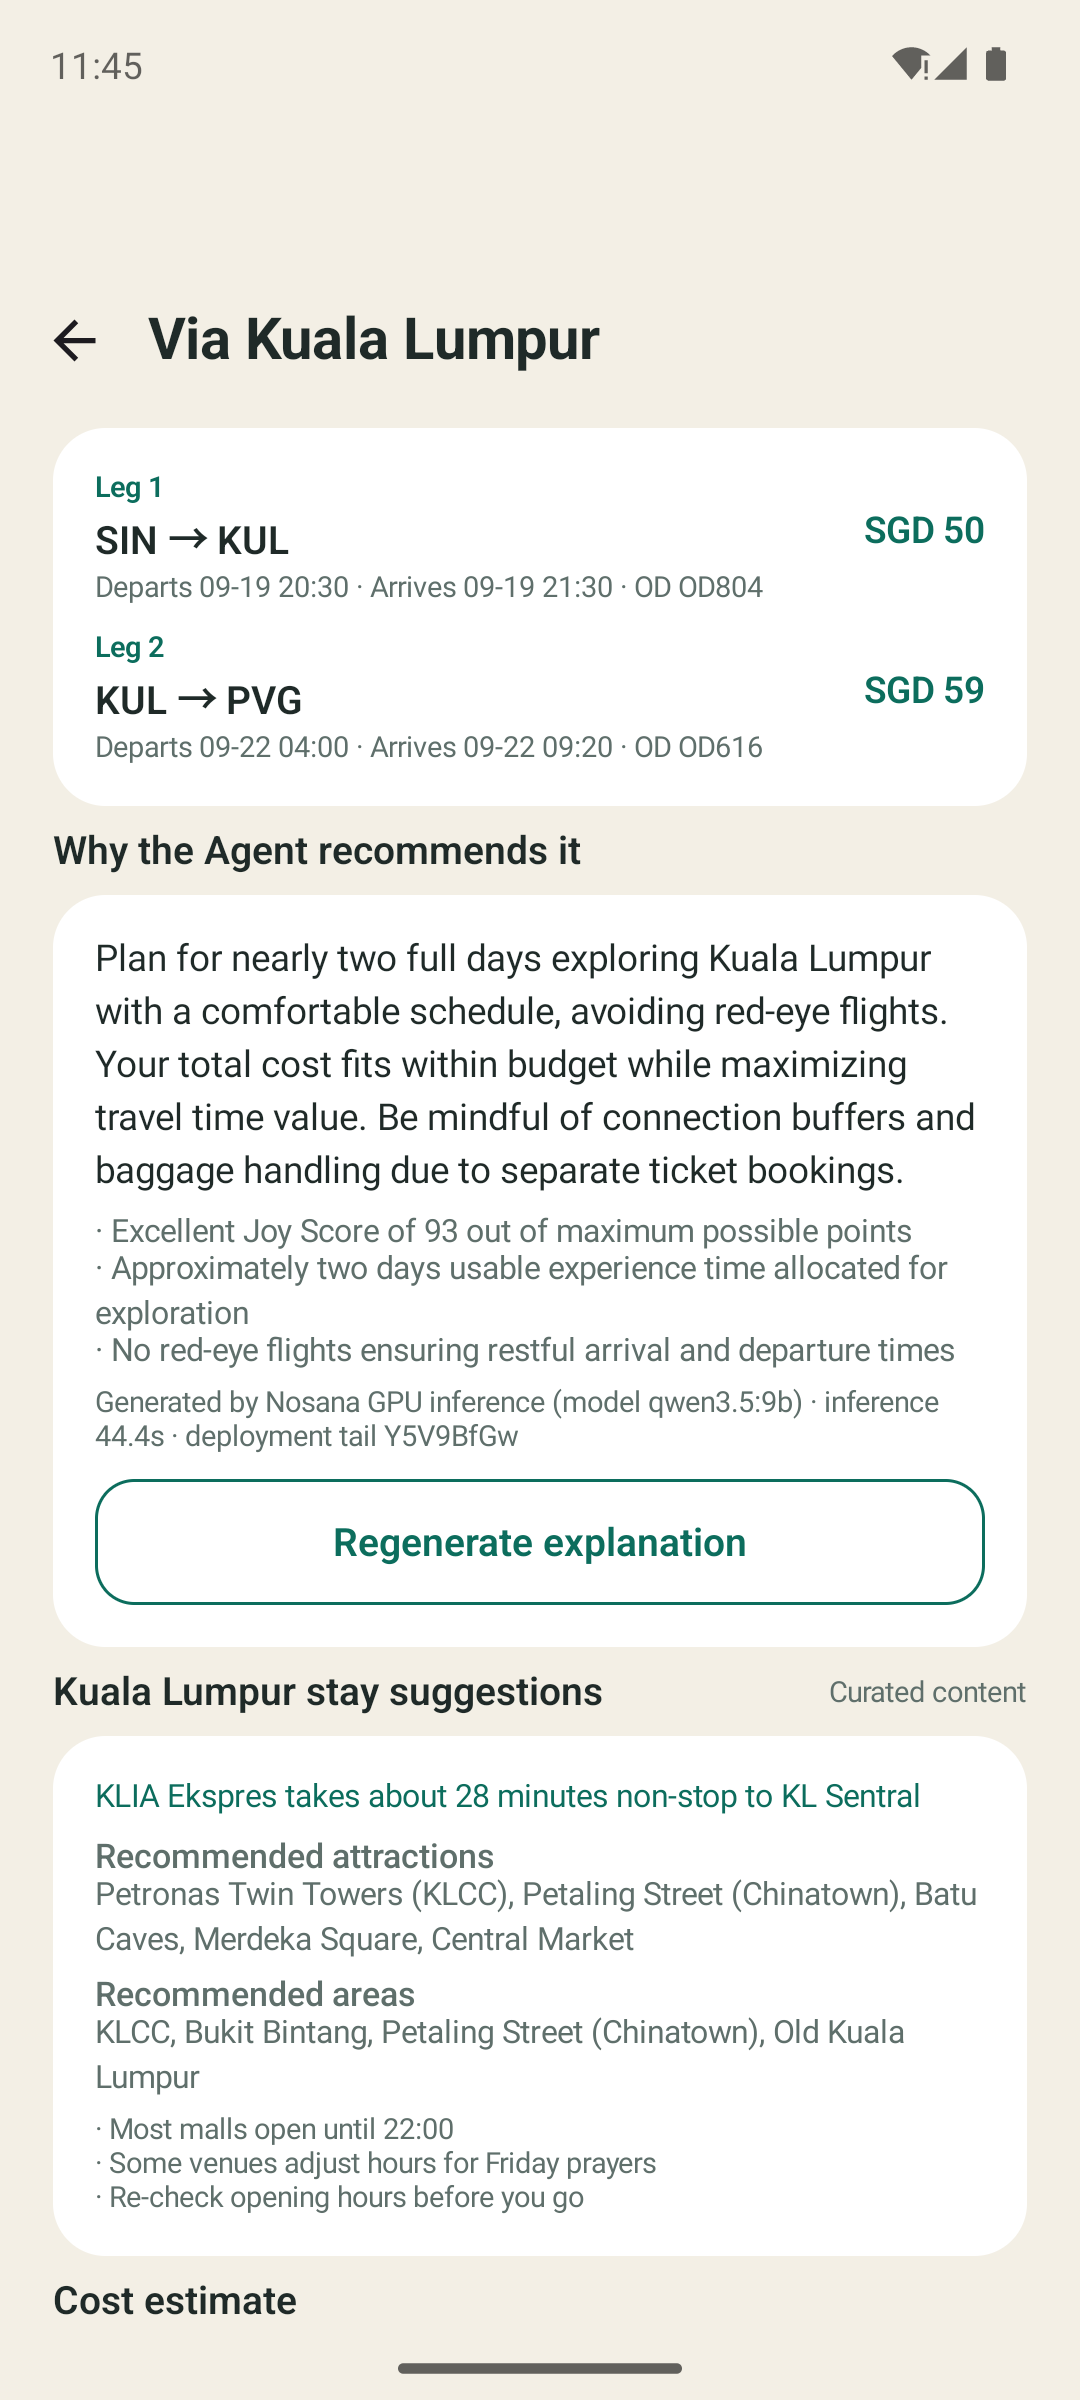
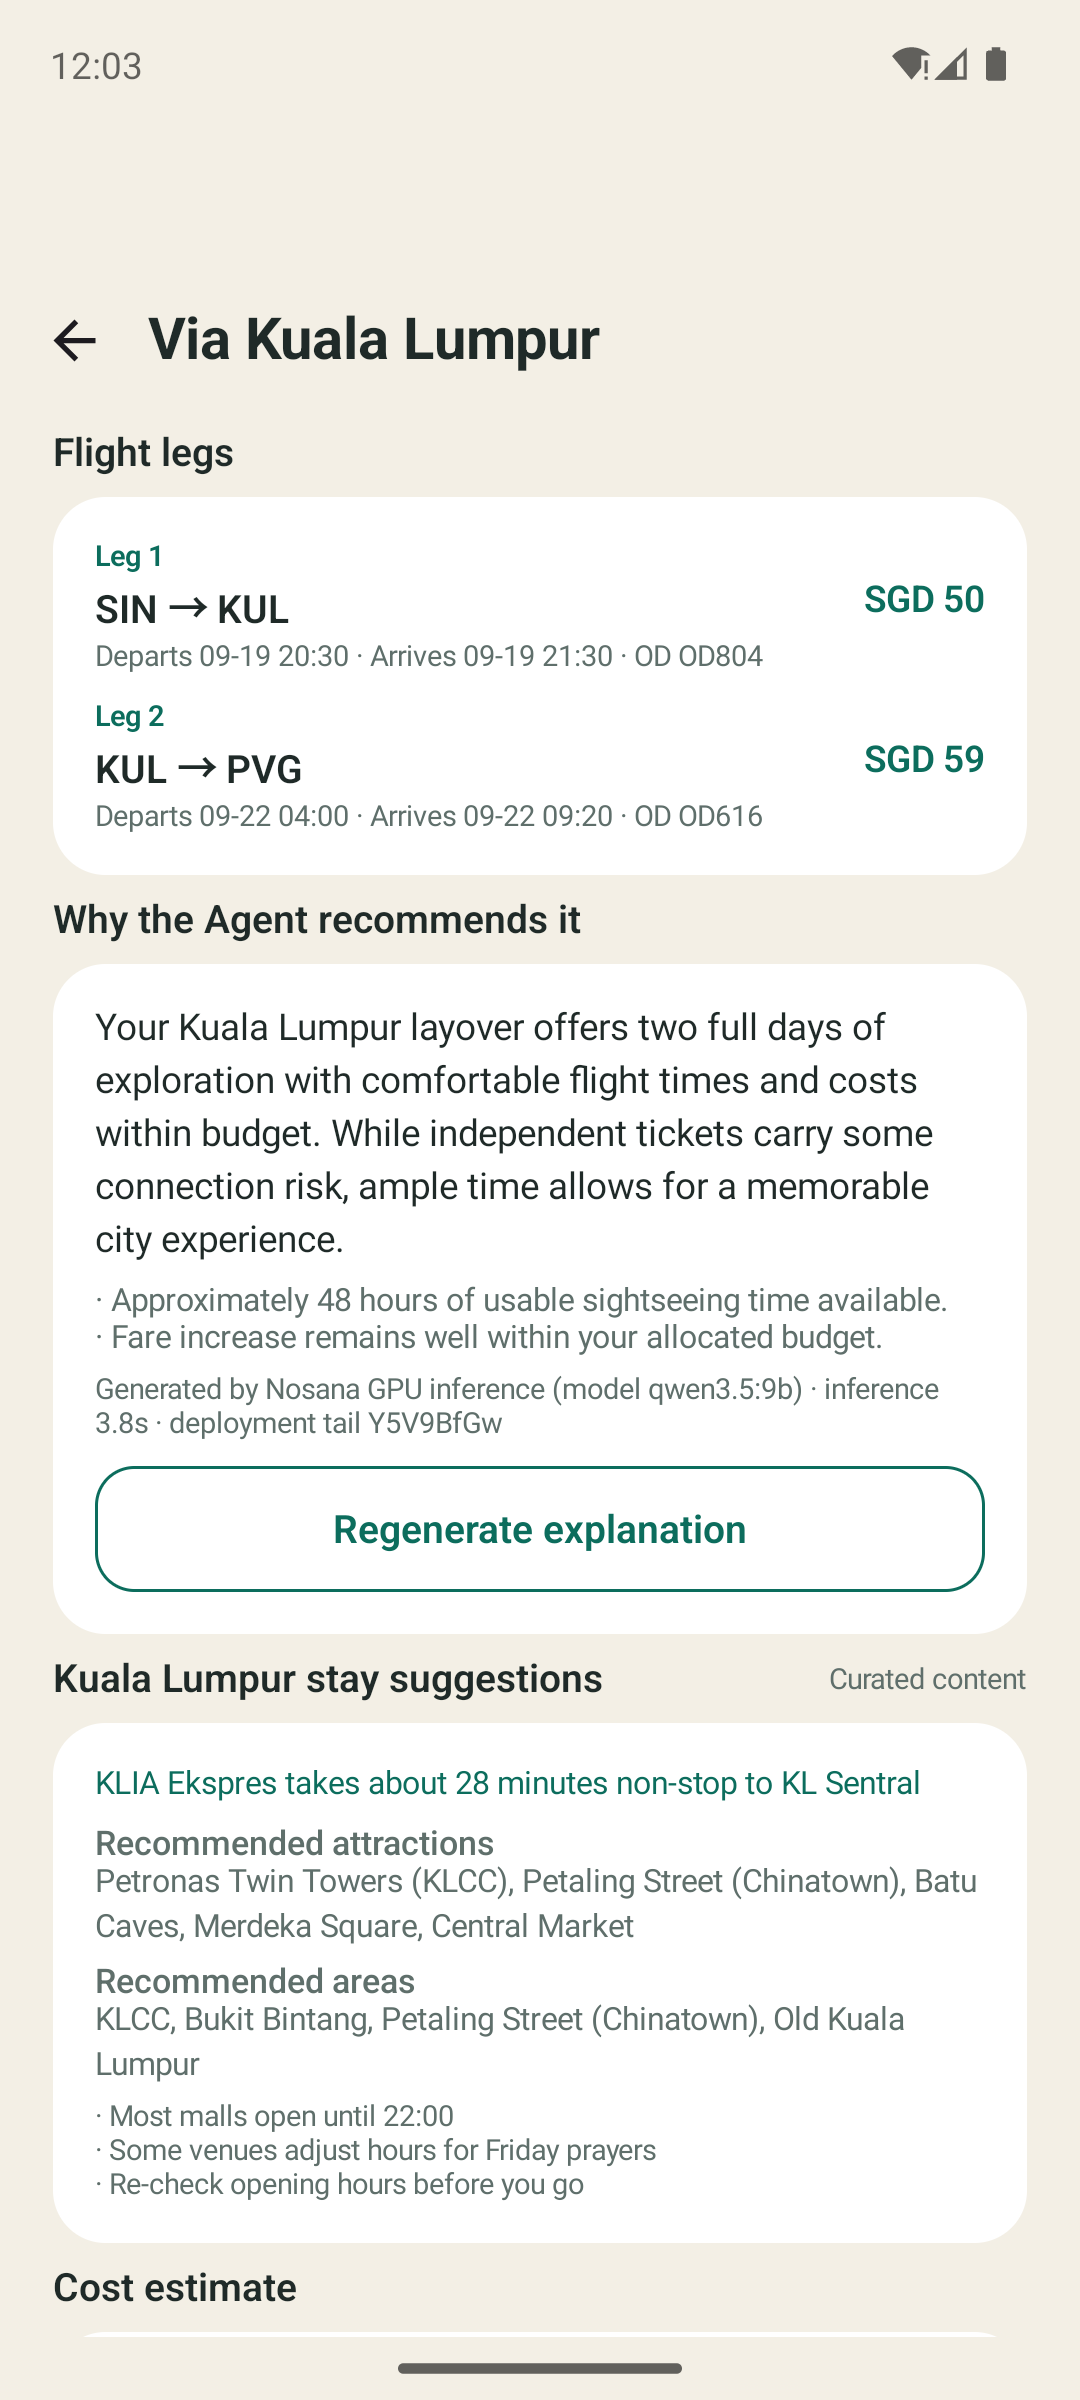
perf(nosana): native /api/chat with think:false, 45s -> ~4s inference
OpenAI-compatible endpoint cannot disable qwen3.5 reasoning chains
(measured 45-50s, and /no_think or think:false there broke content).
Ollama native /api/chat honors think:false + format:json: 3.8-4.5s
end-to-end with equal-quality bilingual output. Screenshot updated.

diff --git a/backend/src/explanations/nosana.service.ts b/backend/src/explanations/nosana.service.ts
@@ -157,14 +157,18 @@ export class NosanaService {
       const controller = new AbortController();
       const timer = setTimeout(() => controller.abort(), budgetMs);
       try {
-        const res = await fetch(`${env.NOSANA_OPENAI_BASE_URL.replace(/\/$/, '')}/chat/completions`, {
+        // 走 Ollama 原生 /api/chat：OpenAI 兼容接口无法关闭 qwen3.5 的长推理（实测 45–50s），
+        // 原生接口 think:false + format:json 同等质量约 5s（实测 10 倍提速）。
+        const nativeBase = env.NOSANA_OPENAI_BASE_URL.replace(/\/v1\/?$/, '').replace(/\/$/, '');
+        const res = await fetch(`${nativeBase}/api/chat`, {
           method: 'POST',
           signal: controller.signal,
           headers,
           body: JSON.stringify({
             model: env.NOSANA_MODEL,
             stream: false,
-            response_format: { type: 'json_object' },
+            think: false,
+            format: 'json',
             messages: [
               { role: 'system', content: systemPrompt },
               { role: 'user', content: userPrompt },
@@ -177,7 +181,7 @@ export class NosanaService {
           return this.templateExplanation(req, 'HTTP_ERROR');
         }
         const data: any = await res.json();
-        const content: string = data?.choices?.[0]?.message?.content ?? '';
+        const content: string = data?.message?.content ?? '';
         const parsed = JSON.parse(content);
         if (typeof parsed.summary !== 'string' || !parsed.summary) throw new Error('invalid explanation payload');
         NosanaService.lastInferenceSucceededAt = new Date().toISOString();

diff --git a/docs/IMPLEMENTATION_STATUS.md b/docs/IMPLEMENTATION_STATUS.md
@@ -66,8 +66,9 @@
   - Android：`planDetail`/`createExplanation` 透传 `L10n.current.tag`；详情页语言切换自动重载并按需重生成解释。
 - 验证：
   - 部署 61xya…BfGw 初次实测在线但推理退化（content 空、reasoning 退化）→ 管理页重启后恢复。
-  - 真实推理实测：provider=NOSANA，model qwen3.5:9b，latency 44–49s，deployment tail Y5V9BfGw；en/zh 双语输出均实测。
+  - 真实推理实测：provider=NOSANA，model qwen3.5:9b，deployment tail Y5V9BfGw；en/zh 双语输出均实测。
+  - 提速：OpenAI 兼容接口无法关闭 qwen3.5 长推理（45–50s）；改走 Ollama 原生 `/api/chat` + `think:false` + `format:json`，实测 3.8–4.5s（10 倍）。
   - 间歇空内容场景：attempt 1 PARSE_ERROR → 重试；持续失败诚实降级 TEMPLATE 并标注原因。
   - 模拟器英文详情页全英文截图：`docs/screenshots/plan-detail-nosana-en.png`（含 Nosana 归属标注）。
 - 测试：tsc EXIT 0；vitest 14/14；check-i18n 265 keys 0 缺失；Gradle BUILD SUCCESSFUL 装机验证。
-- 已知限制：Nosana 为共享 GPU 节点，冷启动/繁忙时单次推理可达 40–60s，偶发空内容；总预算 NOSANA_TIMEOUT_MS=90s，超限诚实降级模板。
+- 已知限制：Nosana 为共享 GPU 节点，冷启动/繁忙时偶发空内容；总预算 NOSANA_TIMEOUT_MS=90s，超限诚实降级模板。解释落库缓存，重复展示瞬时。
